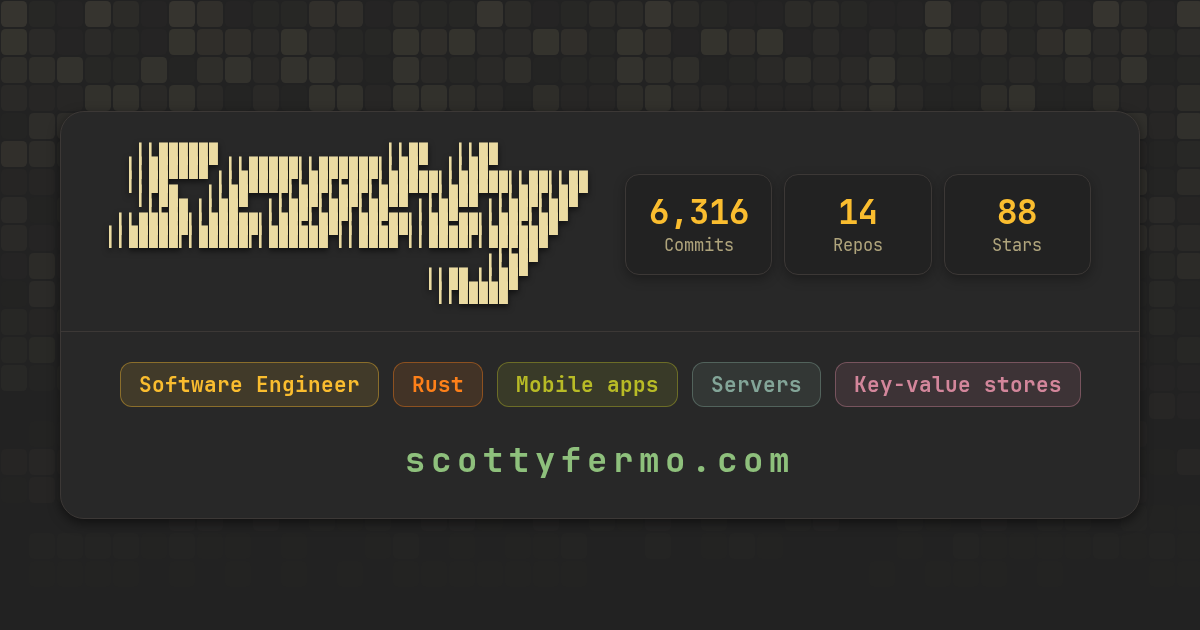
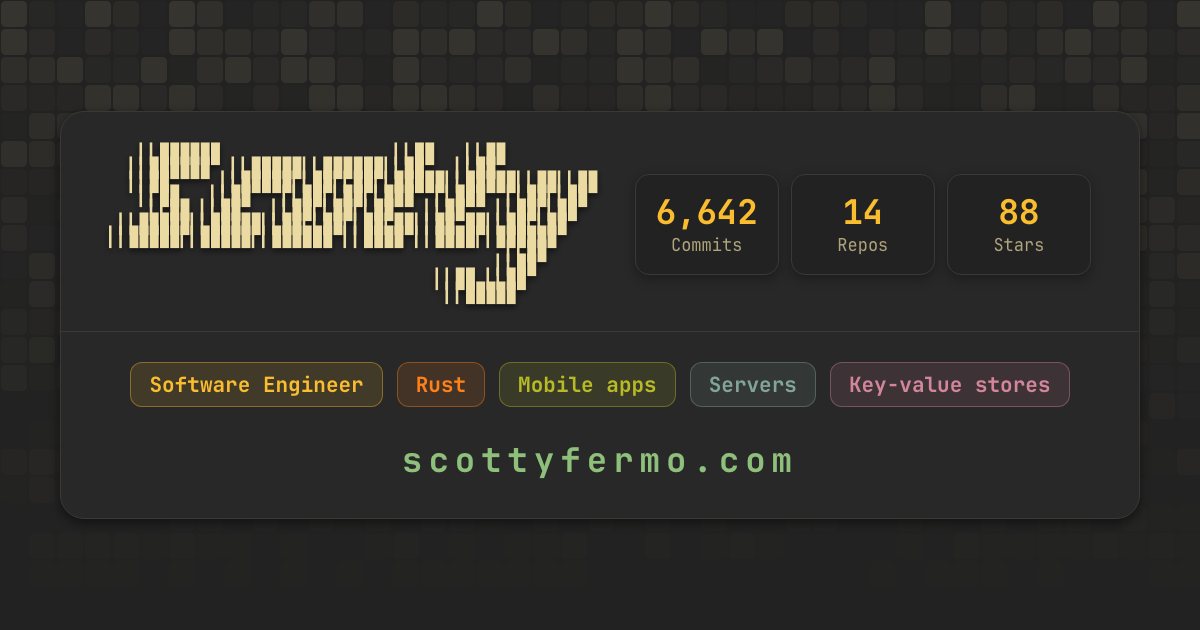
OG card: 6,642 commits

diff --git a/context/marketing/og_default.html b/context/marketing/og_default.html
@@ -209,7 +209,7 @@ body {
                                 ▎▎▉▉ ▎▎▉▉
                                  ▎▎▉▉▉▉▉</pre>
       <div class="stats">
-        <div class="stat"><span class="stat-num">6,316</span><span class="stat-label">Commits</span></div>
+        <div class="stat"><span class="stat-num">6,642</span><span class="stat-label">Commits</span></div>
         <div class="stat"><span class="stat-num">14</span><span class="stat-label">Repos</span></div>
         <div class="stat"><span class="stat-num">88</span><span class="stat-label">Stars</span></div>
       </div>
